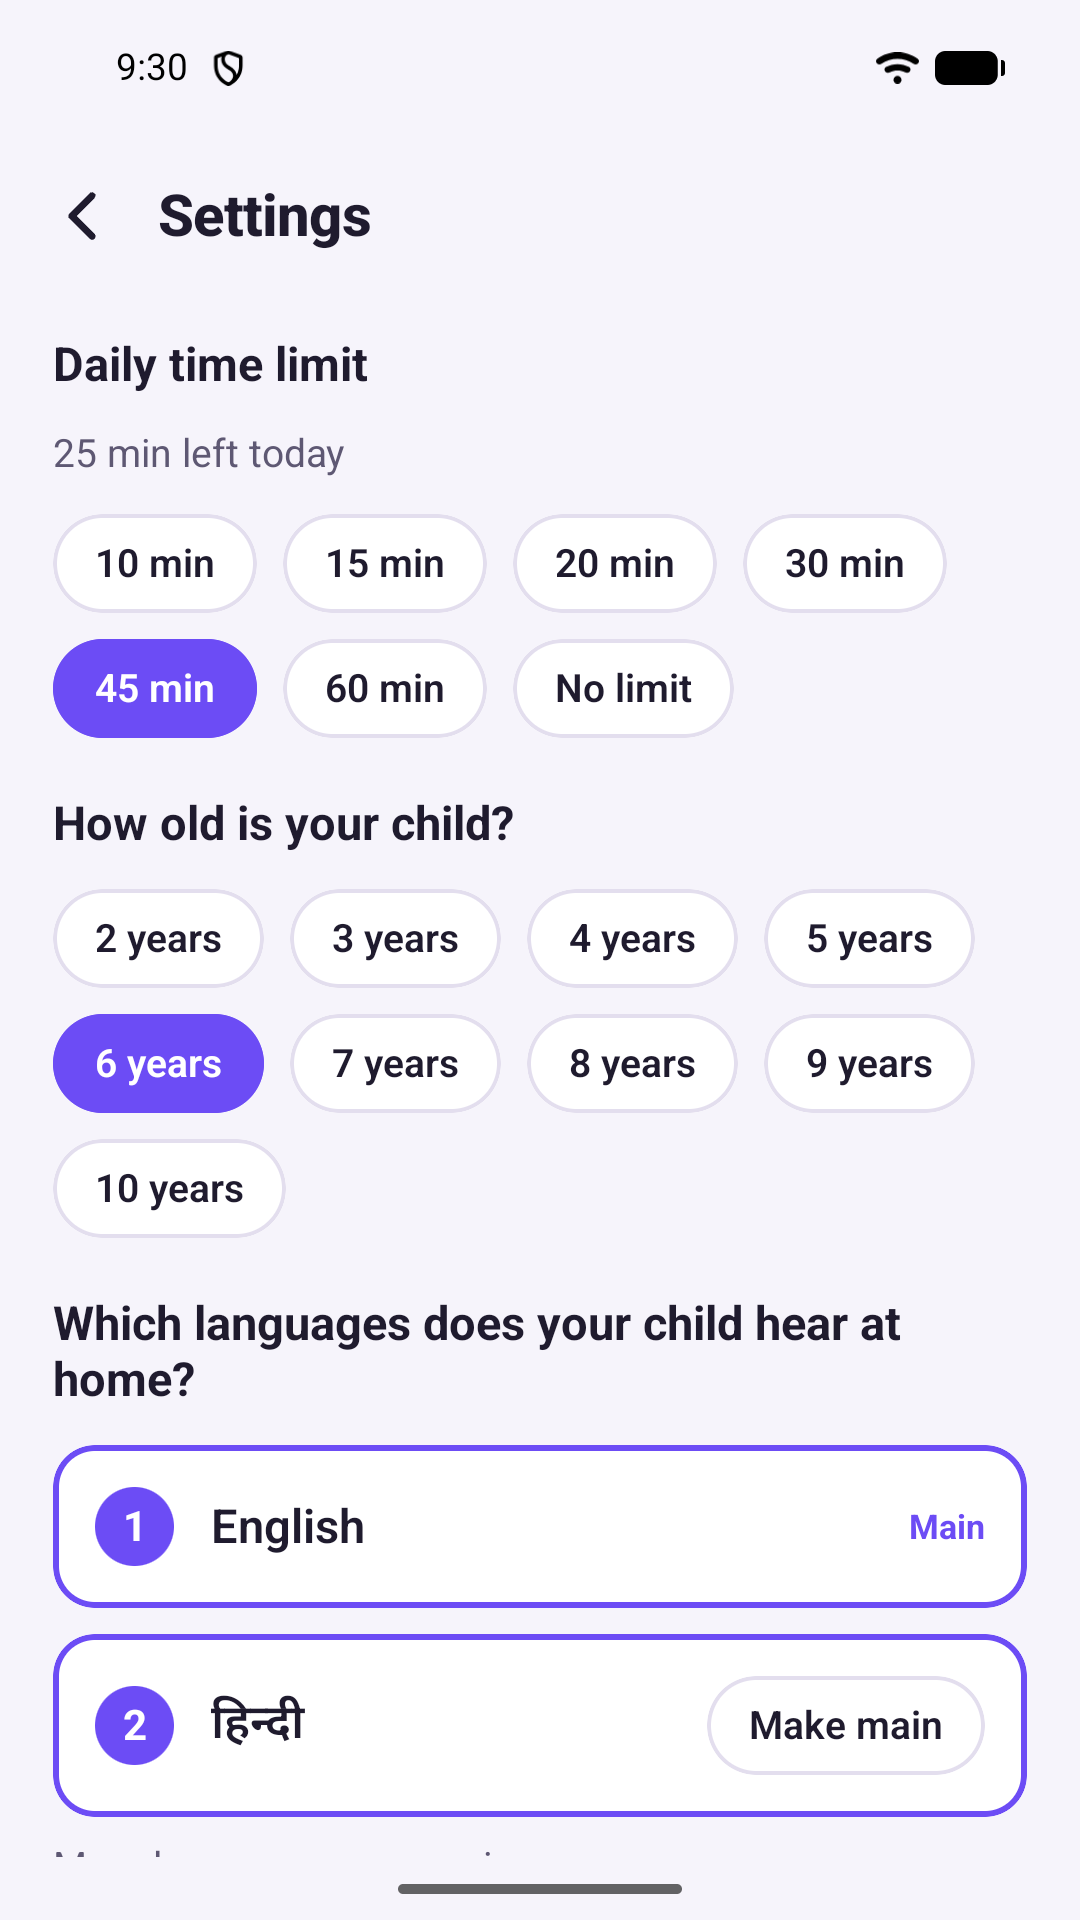
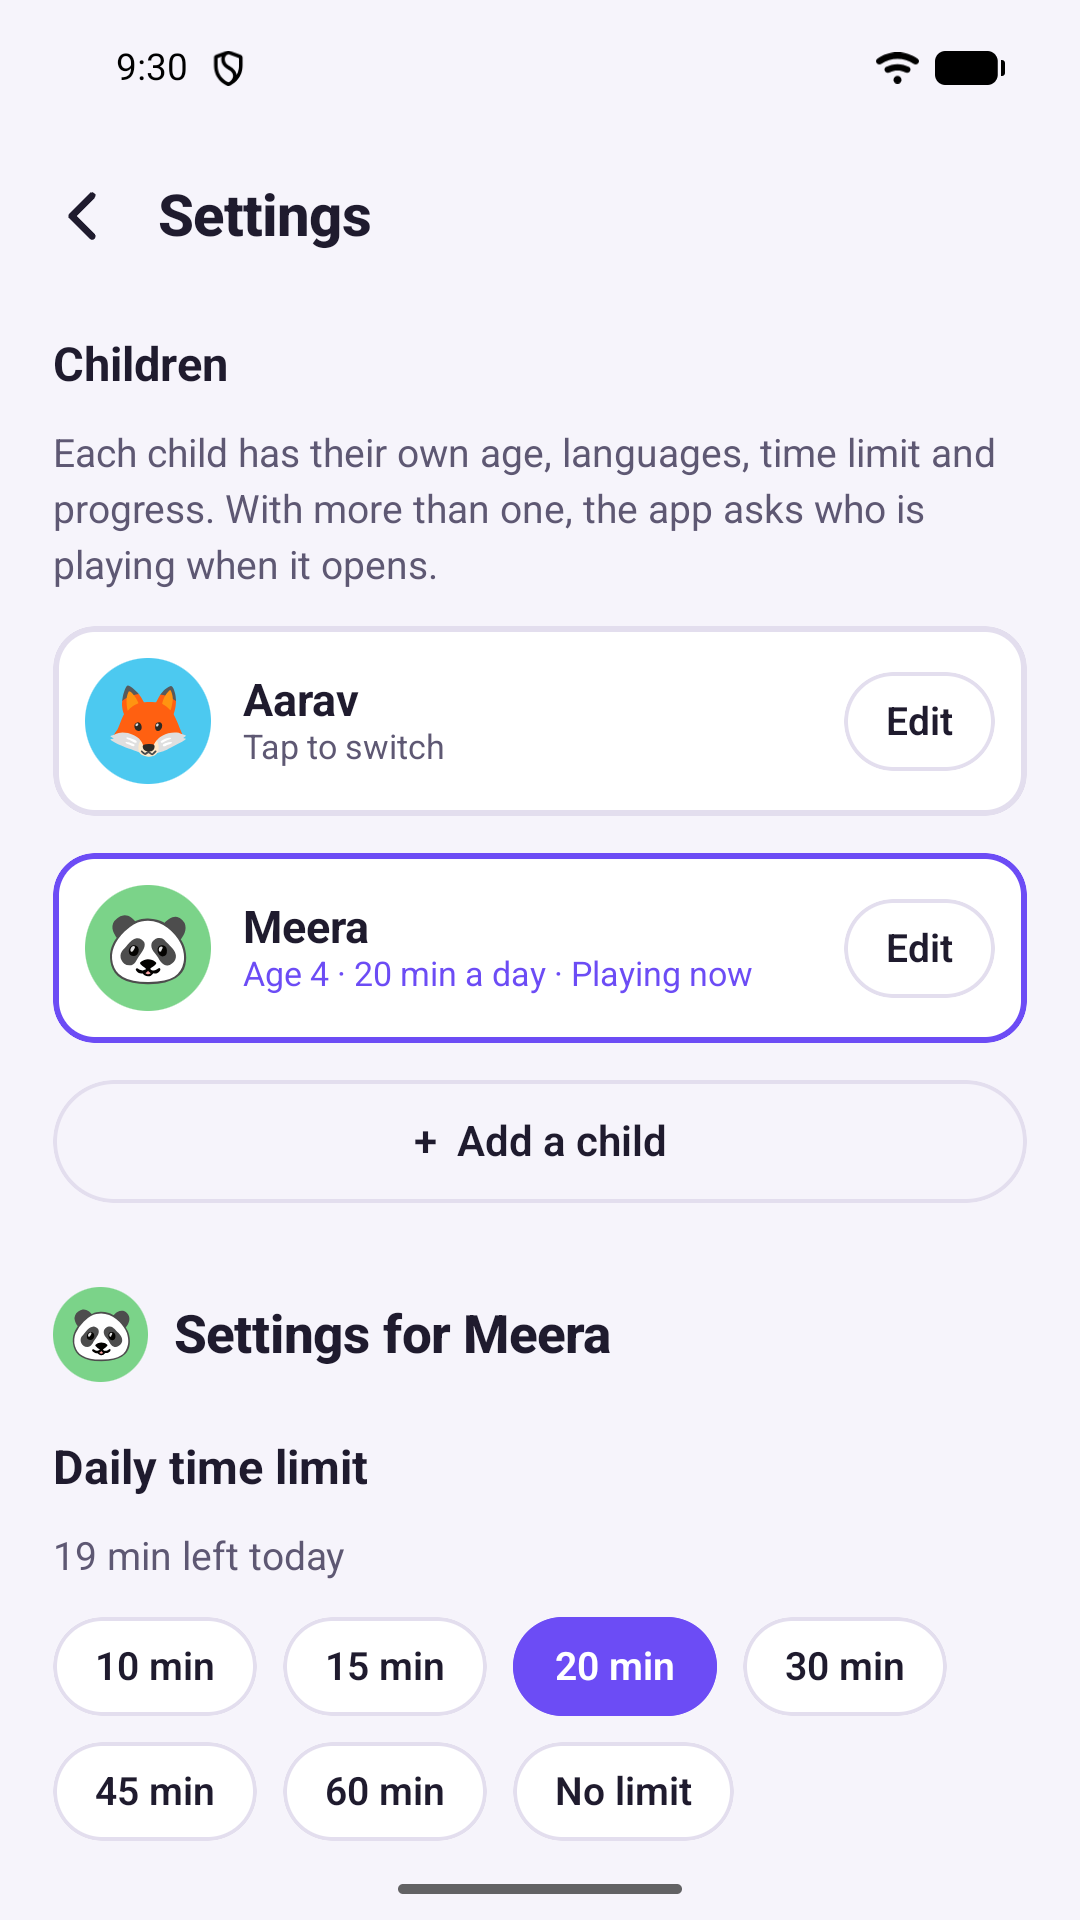
Refresh the store screenshots for profiles and the new games
The listing showed none of 1.2: no children, no drag games, no
reasoning puzzles. "Who's playing?", the missing-piece game, a mirror
puzzle and settings with two children replace number tens, sudoku and
patterns, which showed more of what the cube and counting shots
already did. Still eight, the most Play shows.

diff --git a/docs/play-store.md b/docs/play-store.md
@@ -47,8 +47,12 @@ takes by copy and upload and F-Droid reads as is:
   emoji in them: the system emoji font on a Mac is Apple's artwork.
 - `images/phoneScreenshots/`: from the emulator at 1080 × 1920 (Play refuses a long
   side more than twice the short one, and the emulator's own 1080 × 2424 is), with a
-  demo-mode status bar. They show the Classic look at age 6 and Candy at age 5, English
-  first with Hindi under it, and the parent settings last. The emoji in them are
+  demo-mode status bar. They show the Classic look at ages 6 and 8 and Candy at ages 4
+  and 5, English first with Hindi under it: a 3D cube, "Who's playing?" with two
+  children (Aarav and Meera, made-up names), a Hindi letter, the missing-piece drag game,
+  counting, a mirror-image puzzle, the clock, and the parent settings with both
+  children last. The two "Only: …" chips are from "Show only", used to get those reels
+  on screen. The emoji in them are
   Android's Noto Color Emoji, under the Apache licence.
 
 AI-generated assets: none.
